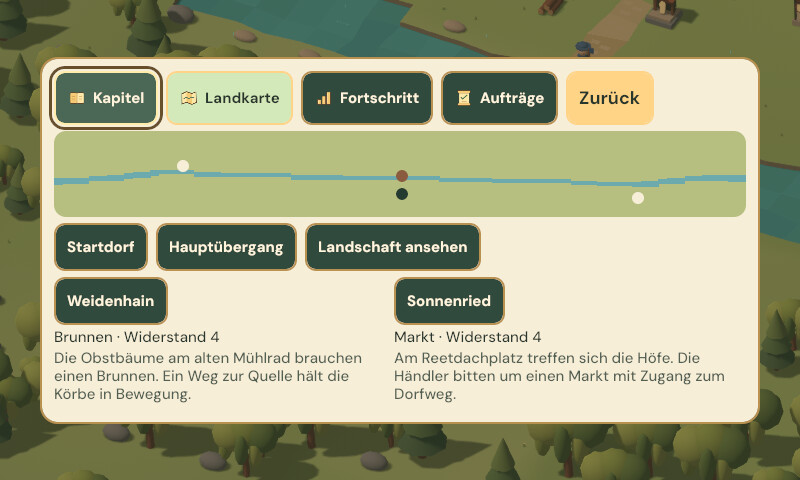
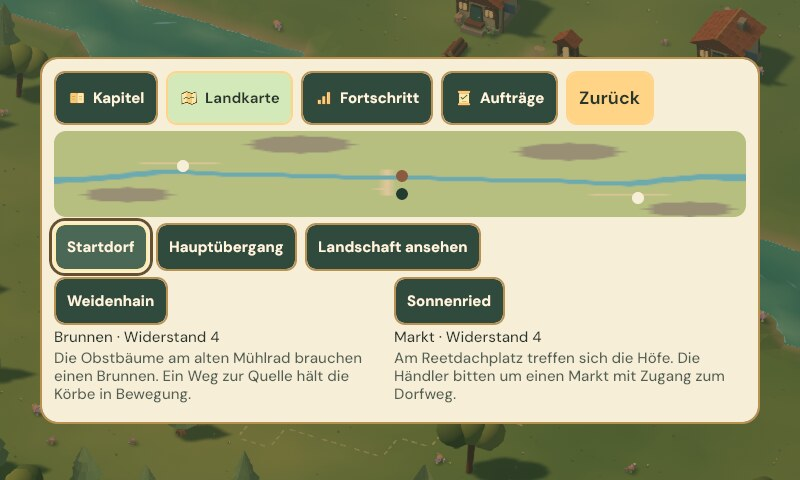
Document the final art pass and handheld play checks

diff --git a/docs/V1.md b/docs/V1.md
@@ -2,7 +2,7 @@
 
 ## Die Kampagne
 
-Weidental führt die Hand, den Bau und die Kreatur ein. Die späteren Welten beginnen mit einem kleinen Dorf. Der Hauptübergang öffnet jeweils die Außenbezirke. Wer beide fernen Siedlungen gewinnt, schaltet das nächste Kapitel frei. Alle vier Kapitel bleiben danach zum Weiterbauen und für offene Nebenaufträge verfügbar.
+Weidental führt die Hand, den Bau und die Kreatur ein. Die späteren Welten beginnen mit einem kleinen Dorf. Der Hauptübergang öffnet jeweils die Außenbezirke. Wer beide fernen Siedlungen gewinnt, schaltet das nächste Kapitel frei. Alle fünf Kapitel bleiben danach zum Weiterbauen und für offene Nebenaufträge verfügbar.
 
 | Welt | Raster | Äußere Siedlungen | Klima und Nebenauftrag |
 | --- | ---: | --- | --- |
@@ -10,19 +10,30 @@ Weidental führt die Hand, den Bau und die Kreatur ein. Die späteren Welten beg
 | Kiefernbucht | 88 × 64 | Wachfeuer und Nordlichtbogen | Im Schneefall steigt der Verbrauch. Ein angeschlossener Speicher schützt den Vorrat. Der Winterauftrag verlangt Holz. |
 | Reisterrassen | 92 × 68 | Kranichwehr und Lotussteg | Flussnebel beschleunigt das Wachstum. Zwei ausgebaute Felder und vier Ernten sichern das Saatgut. |
 | Papyrusufer | 100 × 72 | Akazienrast und Schilfkrone | Trockenzeit bremst unbewässerte Felder. Zwei Brunnen am Weg und Nahrung bilden die Reserve. |
+| Ägäisbogen | 118 × 95 | Olivenhafen und Sternenstufen | Die Seebrise bringt mehr Waren über den Handelshafen. Ein Theater und ein Orakel bereiten das Fest der Winde vor. |
 
 Die zusätzlichen Dörfer haben eigene Geschichten, einen Dorfweg und Anforderungen an Brunnen, Markt, Wachturm oder ausgebautes Haus. Verbinde das benötigte Gebäude mit einem selbst gebauten Wegstück und bringe die verlangte Gabe. Wer den Widerstand mit Windstößen, Donner oder Kreaturenwache auf null senkt, kann das Dorf übernehmen. Beide Ausgänge öffnen einen Sammelplatz und vergrößern den Einfluss.
 
 ## Wege, Wunder und Kreatur
 
-- **Stadtplanung.** Zehn Gebäudearten. Wege brauchen Anschluss und verkürzen Transportzeiten. Gläubige und Nilpferd bringen Rohstoffe zu erreichbaren Sammelpunkten und Lagern in ihrer Nähe. Brunnen halten Felder feucht, Märkte tauschen Nahrung in Baustoffe und Türme schützen Vorräte. Eine Werkstatt öffnet den Ausbau. Grenzsteine erweitern im Tausch gegen Glauben das Baugebiet entlang der Wege.
+- **Stadtplanung.** 31 Gebäudearten. Wege verkürzen Transporte und verbinden Werkstätten, Wohnhäuser und öffentliche Dienste. Familienhäuser schaffen Platz für Nachwuchs. Sägewerk, Steinhof und Schmiede verarbeiten Rohstoffe zu Brettern, Quadern und Werkzeug. Treffpunkte stärken die Stimmung. Palisaden, Wachen und Bastionen schützen Vorräte. Grenzsteine erweitern im Tausch gegen Glauben das Baugebiet. [Baubuch und Forschung](Stadtentwicklung.md)
 - **Wunder.** Regenschauer lässt trockene Felder keimen. Der Blütensegen lässt Saat reifen und erneuert Holz und Obst. Heillicht stärkt das Nilpferd. Die Schutzglocke schützt Vorräte. Windstoß und Donnergrollen senken gegnerischen Widerstand. Vier Talente haben je zwei Stufen und gelten in der ganzen Kampagne.
 - **Nilpferd.** Sammeln, Wache und Feldpflege sind wiederholbare Aufgaben. Lob nach getaner Arbeit erhöht den Rang. Auf Rang 2 hält es Wache, auf Rang 3 pflegt es Felder und auf höheren Rängen trägt es mehr und läuft ausdauernder. Pausen und Snacks füllen die Kraft auf.
 - **Fortsetzen.** Alte Spielstände aus 0.1.1 übernehmen Kapitel, Gebäude, Vorräte, getragene Bündel und Kreaturenrang. Neue Quellen, Wege und Außenbezirke kommen dazu. Freigeschaltete Kapitel bleiben erreichbar.
 
 ## Bildreferenzen
 
-Die Übersichts- und Stadtstudien entstanden vor der Umsetzung. In Bevy prägen sanfte Weidenhügel, verschneite Fjordfelsen, gestufte Terrassen und ockerfarbene Ufer die vier Karten. Die Vorlagen führten zu organischeren Flussläufen, einzelnen Dorfgruppen und helleren Wegen. Die Spielbilder zeigen Städte und Landschaften aus den Kampagnentests. [Weidental-Übersicht](weidental-uebersicht-v1.png) · [Stadtplanung](weidental-stadtplanung-v1.png) · [Landschaftsstudie](regionen-v1-referenz.png) · [Bevy-Gesamtansicht](weidental-v1-landschaft.jpg) · [Bevy-Stadt](weidental-v1-spiel.jpg) · [Drei Welten in Bevy](regionen-v1-spiel.jpg)
+Die Übersichts- und Stadtstudien entstanden vor der Umsetzung. In Bevy prägen sanfte Weidenhügel, verschneite Fjordfelsen, gestufte Terrassen, ockerfarbene Ufer und Inseln die fünf Karten. Die Vorlagen führten zu organischeren Flussläufen, einzelnen Dorfgruppen und helleren Wegen. Die Spielbilder zeigen Städte und Landschaften aus den Kampagnentests. [Weidental-Übersicht](weidental-uebersicht-v1.png) · [Stadtplanung](weidental-stadtplanung-v1.png) · [Landschaftsstudie](regionen-v1-referenz.png) · [Bevy-Gesamtansicht](weidental-v1-landschaft.jpg) · [Bevy-Stadt](weidental-v1-spiel.jpg) · [Drei Welten in Bevy](regionen-v1-spiel.jpg)
+
+## Gelände, Licht, Wetter und Physik
+
+Die Landschaftsstudie gab die Staffelung aus bewachsenem Boden, Ufer, hellen Untiefen und dunklerem Wasser vor. Bevy zeichnet sie in Geländestücken von 16 × 16 Rasterfeldern. Gras und Blüten stecken in den Geländemeshes. Die Schaumlinie folgt dem Schnitt von Wasserfläche und Gelände. Im Ägäisbogen kamen Oliven, gerollte Dachziegel und versetztes Kalksteinmauerwerk hinzu. Die Screenshots zeigen vorbereitete Dörfer aus der normalen Spielkamera. [Geländereferenz](gelaende-v1-referenz.jpg) · [Ägäisbogen im Spiel](aegaeisbogen-spiel.jpg)
+
+Aus Waldwinkel 1.1.0 stammen Kiefer, Fels, Pilze, Sumpfkräuter, Muscheln, Erdbeerstauden, Kupferlaterne und Farn. Die eingebundenen GLBs liegen unter `assets/models/waldwinkel/` und entsprechen dem Stand `ffeac7f8b61754779a14ec684ac3b84c6b3240ca`. Waldwinkels Quellcode für weiche Küsten, Schaum und kleine Geländemeshes diente als Vorlage für die Bevy-Umsetzung. [Waldwinkel 1.1.0](https://github.com/bthginfo/waldwinkel/releases/tag/v1.1.0) · [Quellmodelle](https://github.com/bthginfo/waldwinkel/tree/ffeac7f8b61754779a14ec684ac3b84c6b3240ca/assets/models) · [Geländegenerator](https://github.com/bthginfo/waldwinkel/blob/ffeac7f8b61754779a14ec684ac3b84c6b3240ca/art/landscape.py)
+
+Sonne, farbiges Fülllicht und Tiefendunst wechseln sanft mit dem Wetter. Landregen, Schneefall, Flussnebel, Trockenheit und Seebrise haben jeweils eigene Partikel. Auf Mobilgeräten teilen sie sich einen Pool mit 52 Objekten. Die Sonne nutzt eine einzelne Schattenkaskade mit 1024 × 1024 Pixeln. In der Fernansicht entfallen die dynamischen Schatten. Die Schatten der Gebäude und die Gesichter der Figuren sind im Nahbereich auch bei Wetterschwankungen lesbar. [Licht- und Wetterreferenz](licht-wetter-v1-referenz.jpg) · [Vier Wetterlagen im laufenden Spiel](licht-wetter-v1-spiel.jpg)
+
+Das Höhenprofil von Gelände, Ufer und Brückendeck verbindet Darstellung, Laufen, Touch-Auswahl und Wundereffekte. Die Schritte der Figuren und der Auswahlring folgen dem Boden. Tropfen fallen mit Beschleunigung und treffen auf derselben Oberfläche auf. Die Wegfindung berücksichtigt auf dem Raster Wasser, Gebäude und begehbare Übergänge. [Bevy-Beleuchtung](https://bevy.org/examples/3d-rendering/lighting/) · [Bevy-Tiefendunst](https://bevy.org/examples/3d-rendering/fog/) · [Skills und Spielreferenzen](../PLAN.md#über-find-skills-geprüfte-arbeitsweisen)
 
 ## Spieloberfläche
 
@@ -34,7 +45,7 @@ Der Fokusrahmen bleibt bei Menüänderungen an derselben Aktion. Steuerkreuz und
 
 ## Prüfungen
 
-- Sieben Rust-Tests durchlaufen die friedliche Kampagne über alle vier Welten und den Kampfweg im Weidental. Sie prüfen Brücken als Wegverbindung, Baumaterial und Gaben, Ausbauten, Grenzsteine, Talente, Feldpflege, die Migration eines 0.1.1-Spielstands und die räumliche Menüführung.
-- Das laufende Bevy-Spiel lud den älteren Spielstand, reparierte die Brücke, schloss das Bündnis und baute einen Weg. Die Oberflächenprüfung deckte 1360 × 765, 844 × 390 und 1024 × 768 ab. [Landkarte im Handyformat](landkarte-v1-spiel.jpg) · [Aufträge im Tabletformat](tablet-v1-spiel.jpg)
-- Die signierte APK für ARM64 und x86_64 lässt sich im Android-14-Emulator als Update über 0.1.1 installieren. Touch brachte Holz vom Vorrat zum Sammelplatz. Ein virtueller Controller öffnete die Karte, bewegte den Fokus und sprang mit der Bestätigung ins Startdorf. [Android-Controllerfokus im Spiel](controller-v1-spiel.jpg)
-- Xcode hat das iOS-Simulatorpaket auf GitHub gebaut. Der Lauf zur Simulatorprüfung ist verlinkt. Installation, Eingaben und Grafikleistung auf physischen iPhones, iPads und Android-Geräten sind ungeprüft. [Apple-Prüflauf](https://github.com/bthginfo/Hippogrove/actions/runs/44717973759) · [Paketierung](../README.md#ios-und-ipados)
+- Zehn Rust-Tests durchlaufen die friedliche Kampagne über alle fünf Welten und den Kampfweg im Weidental. Sie prüfen Brücken, Baukosten, Grenzsteine, Talente, Feldpflege, Forschungsvoraussetzungen, Materialketten, Geburten, Wachen, Datenmigration und die räumliche Menüführung. Der Geländetest gleicht alle Rasterfelder mit der gezeichneten Küstenlinie ab und erfasst Strahltreffer am Boden und auf der Brücke.
+- Das laufende Bevy-Spiel lud einen älteren Spielstand, reparierte die Brücke, schloss ein Bündnis und baute einen Weg. Die Oberflächenprüfung deckte 1360 × 765, 844 × 390 und 1024 × 768 ab. Der Ägäisbogen ließ sich aus einem abgeschlossenen Spielstand mit vier Welten öffnen. [Landkarte im Handyformat](landkarte-v1-spiel.jpg) · [Aufträge im Tabletformat](tablet-v1-spiel.jpg)
+- Die APK enthält ARM64 und x86_64 und ist mit APK Signature Scheme v2 und v3 signiert. Im Android-14-Emulator ließ sich die aktuelle APK als Update installieren. Touch brachte sechs Holz vom Vorrat zum Sammelplatz. Ein virtueller Controller öffnete die Karte, bewegte den Fokus und sprang mit der Bestätigung ins Startdorf. [Touch-Lieferung](hand-v1-android.jpg) · [Android-Controllerfokus](controller-v1-spiel.jpg)
+- Der Apple-Prüflauf baut das Paket mit Xcode und zeichnet den Spielstart im iPhone- und iPad-Simulator auf. Physische Geräte, Bluetooth-Controller und Grafikleistung auf realer Apple- und Android-Hardware sind noch ungeprüft. [Apple-Prüflauf](https://github.com/bthginfo/Hippogrove/actions/runs/44725936809) · [Paketierung](../README.md#ios-und-ipados)

diff --git a/README.md b/README.md
@@ -2,9 +2,9 @@
 
 Ein mobiles Cozy-3D-Götterspiel in Rust und Bevy. Als junger Nilpferdgott hilfst du einem Dorf am Fluss, baust es aus und gewinnst Glauben. Deine Wolkenpfote greift direkt in die Welt ein. Ein aufrecht laufendes Nilpferd sammelt, trägt und lernt an deiner Seite.
 
-Hippogrove 1.0 spielt sich im Querformat per Touch oder mit angeschlossenem Controller. Vier Welten führen vom Weidental über die Kiefernbucht und die Reisterrassen bis ans Papyrusufer. Baue Dörfer am Fluss aus und gewinne jedes Mal drei Nachbarsiedlungen durch Versorgung und Ansehen oder durch Wunder und Kreaturenwachen. Talente und Kreaturenrang reisen mit. Alle Städte, Straßen und Entscheidungen bleiben im lokalen Spielstand erhalten.
+Hippogrove 1.0 spielt sich im Querformat per Touch oder mit angeschlossenem Controller. Fünf Welten führen vom Weidental über die nordisch inspirierte Kiefernbucht, die Reisterrassen und das Papyrusufer bis zu den griechischen Sagen des Ägäisbogens. Baue Dörfer aus und gewinne ihre Nachbarsiedlungen durch Versorgung und Ansehen oder durch Wunder und Wachen. Forschung, Talente und Kreaturenrang reisen mit. Alle Städte, Straßen und Entscheidungen bleiben im lokalen Spielstand erhalten.
 
-![Bevy-Spielaufnahme aus Hippogrove 1.0 mit Wegen, Nilpferd und Wolkenpfote](docs/weidental-v1-spiel.jpg)
+![Der Ägäisbogen im Spiel mit Theater, Hafen, Badhaus und dem Nilpferd](docs/aegaeisbogen-spiel.jpg)
 
 ## Spielen
 
@@ -12,15 +12,15 @@ Auf Android öffnest du die signierte Test-APK aus deinen Downloads. Benötigt w
 
 Tippe auf einen Holzstoß und bestätige **Greifen**. Wähle dann den Sammelplatz und **Ablegen**. Mit **Gläubige** und **Nilpferd** erteilst du Sammelaufträge. **Zum Ziel** zeigt einen passenden Zielpunkt für das aktive Werkzeug. In **Fortschritt** setzt du Talentpunkte ein. Das Nilpferd lernt durch Lob nach einer Lieferung, Wache oder Ernte.
 
-Unter **Planen** zeichnest du Wege mit Anfang und Ende. Ausbauten brauchen eine Werkstatt und Anschluss an einen Dorfweg. Am Wegenetz bewässern Brunnen die Felder, Märkte tauschen Vorräte und Wachtürme schützen den Umkreis. Unter **Bauen** wechselst du zwischen Grundbau, Versorgung und Grenze. Auf der **Landkarte** springst du zwischen Startdorf, Übergang und den fernen Siedlungen.
+Unter **Planen** zeichnest du Wege mit Anfang und Ende. Ausbauten brauchen eine Werkstatt und einen Anschluss an den Dorfweg. Das **Baubuch** zeigt 31 Gebäudearten mit ihren Kosten und Aufgaben. Im **Forschungsmenü** erschließt du 12 Technologien über vier Zweige. Am Wegenetz können Familien wachsen, Betriebe Vorprodukte und Werkzeug herstellen, Treffpunkte die Stimmung heben und Wachhäuser Wachen ausbilden. Auf der **Landkarte** springst du zwischen Startdorf, Übergang und den fernen Siedlungen.
 
 Tippe auf den Titel des aktiven Auftrags, um ihn einzuklappen. Der goldene Knopf zeigt die Aktion für das ausgewählte Ziel. Im Nilpferd-Werkzeug findest du Lob, Snack und Pause unter **Pflege**. Der Fokusrahmen zeigt im Menü, welche Aktion du per Controller oder Tastatur bestätigst.
 
 | Steuerung | Kamera und Ziel | Aktionen |
 | --- | --- | --- |
 | Touch | Boden ziehen, mit zwei Fingern schwenken und zoomen, Ziel antippen | Werkzeugleiste und Bestätigung |
-| Controller | Linker Stick bewegt die Wolkenpfote, rechter Stick schwenkt, Trigger zoomen | Steuerkreuz wählt Werkzeuge oder Menüpunkte, Südtaste bestätigt, Osttaste bricht ab, Start öffnet die Karte |
-| Rechner | Maus zum Antippen, Ziehen und Zoomen, WASD zum Schwenken | 1–6 für Werkzeuge, E für die Aktion, R zum Drehen, G fürs Ziel, M für die Landkarte, Tab für Kapitel, Q für Aufträge, P für Fortschritt. Pfeiltasten und Enter bedienen Menüs. F12 speichert ein Spielbild. |
+| Controller | Linker Stick bewegt die Wolkenpfote, rechter Stick schwenkt, Trigger zoomen | Steuerkreuz wählt Werkzeuge oder Menüpunkte, Südtaste bestätigt, Osttaste bricht ab, Start öffnet die Karte. Die linke Schultertaste öffnet beim Bauen das Baubuch. |
+| Rechner | Maus zum Antippen, Ziehen und Zoomen, WASD zum Schwenken | 1–6 für Werkzeuge, E für die Aktion, R zum Drehen, G fürs Ziel, M für die Landkarte, Tab für Kapitel, Q für Aufträge, P für Fortschritt, B fürs Baubuch und T für Forschung. Pfeiltasten und Enter bedienen Menüs. F12 speichert ein Spielbild. |
 
 ## Projekt bauen
 
@@ -57,8 +57,10 @@ Ein Gerätebuild mit `HIPPOGROVE_IOS_DEVICE=1` verwendet `aarch64-apple-ios` und
 
 Black & White und Black & White 2 liefern die Spielideen für Hand, Einfluss, Kreatur und Siedlungsbau. Waldwinkel ist die Vorlage für die Low-Poly-Optik, die Bedienung und die mobile Paketierung. Der ausführliche Plan enthält weitere Spielreferenzen und die geprüften Skills. [Waldwinkel](https://github.com/bthginfo/waldwinkel) · [Entwicklungsplan](PLAN.md)
 
-Die Blender-Quelle liegt in `art/Hippogrove.blend`. `blender -b -P art/build_scene.py` erzeugt das Nilpferd und seinen GLB-Export. In Bevy bewegen sich Arme und Beine über getrennte Drehpunkte. Die Referenzen für 1.0 lagen vor dem Umbau vor. [Weidental](docs/weidental-uebersicht-v1.png) · [Stadtplanung](docs/weidental-stadtplanung-v1.png) · [Kiefernbucht, Reisterrassen und Papyrusufer](docs/regionen-v1-referenz.png)
+Die Blender-Quelle liegt in `art/Hippogrove.blend`. `blender -b -P art/build_scene.py` erzeugt das Nilpferd und seinen GLB-Export. In Bevy bewegen sich Arme und Beine über getrennte Drehpunkte. Für die neuen Gebäude entstanden eigene Low-Poly-Modelle und Materialien. Die Referenzen lagen vor dem Modellieren vor. [Modellquellen der Gebäude](src/art/settlement_models.rs) · [Gebäudestudie](docs/gebaeude-referenz.png) · [Ägäisbogen](docs/aegaeisbogen-referenz.png) · [Forschungsoberfläche](docs/forschung-referenz.png)
+
+Die Landschaften haben modellierte Uferzonen, Straßen aus einzelnen Steinen und regionales Wetter. Bevy stimmt Sonnenwinkel, Fülllicht, Dunst und Schatten auf die jeweilige Welt ab. Das Höhenprofil bestimmt gleichzeitig, wo Figuren laufen, wo Regen auftrifft und welchen Bodenpunkt die Wolkenpfote auswählt. Acht Vegetations-, Siedlungs- und Rohstoffmodelle stammen aus Waldwinkel 1.1.0. [Licht, Wetter und Herkunft der Modelle](docs/V1.md#gelände-licht-wetter-und-physik)
 
 ## Geprüfter Stand
 
-Die Rust-Tests spielen den Friedensweg durch alle vier Kapitel und den Kampfweg im Weidental. Sie prüfen Wege und Dienste, Ausbauten, Einfluss, Kreaturentraining, Wunder und das Laden älterer Spielstände. Änderungen, Spielaufnahmen und Plattformprüfungen stehen in den Versionsnotizen. [Entwicklung und Prüfungen für 1.0](docs/V1.md)
+Die Rust-Tests spielen den Friedensweg durch alle fünf Kapitel und den Kampfweg im Weidental. Sie prüfen auch die Forschungs- und Produktionsketten, Geburten, Patrouillen, Wunder, die Menüführung und die Übernahme älterer Spielstände. [Spielaufnahmen und Prüfungen für 1.0](docs/V1.md) · [Stadtentwicklung](docs/Stadtentwicklung.md)

diff --git a/PLAN.md b/PLAN.md
@@ -86,7 +86,7 @@ Der Bodenring zeigt den tatsächlichen Trefferpunkt. Die Wolke sitzt versetzt, d
 
 ## Umsetzung in Bevy
 
-1. Gelände, Ufer, Bauplätze und Rohstoffquellen teilen sich ein Raster. Die Kamera blickt orthografisch auf die Szene. Auswahlstrahl, Platzierung, Wegfindung und Einflussgrenze nutzen dieselben Koordinaten. Der einzige Übergang über das Wasser bleibt als Fußweg frei.
+1. Gelände, Ufer, Bauplätze und Rohstoffquellen teilen sich ein Raster. Die Kamera blickt orthografisch auf die Szene. Auswahlstrahl, Platzierung, Wegfindung und Einflussgrenze nutzen dieselben Koordinaten. Die Querungen bleiben als Fußwege frei. Am Hauptübergang wird die Reparatur Teil des ersten Bündnisses.
 2. Das Rust-Spielmodell verarbeitet Befehle wie Greifen, Liefern, Bauen, Beauftragen und Wunder wirken. Es prüft Vorräte, Ziele und Berechtigungen, bevor es eine Aktion übernimmt. Simulationsschritte bewegen Helfer und Kreatur, liefern Bündel ab, lassen Pflanzen wachsen und laden Wunderkraft auf. Die Darstellung liest den Spielzustand und zeigt die zugehörigen Modelle, Bewegungen und Rückmeldungen.
 3. Touch, Maus und Controller verwenden den gleichen Auswahlpunkt und die gleichen Aktionen. Antippen wählt, Bestätigen führt aus. Ziehen über freien Boden schwenkt die Kamera. Im Bau- oder Wundermodus verschiebt Ziehen das Ziel. Zweifinger-Zoom bricht die Geste ab, die bei einem einzelnen Finger zur Auswahl führen würde. Controller-Sticks und Menütasten steuern auch Fortschritts- und Kapitelansicht.
 4. Der Spielstand hält Siedlungen, drei Fortschritte, Questphase, offene Transporte und das in der Pfote gehaltene Bündel fest. Stabile Kennungen in den Leveldaten verbinden die gespeicherten Zustände mit Rohstoffquellen und Gebäuden. Fortsetzen stellt die laufende Karte wieder her.
@@ -98,6 +98,9 @@ Der Bodenring zeigt den tatsächlichen Trefferpunkt. Die Wolke sitzt versetzt, d
 - **Bevy Quest, Character Movement und Ability System** liefern Muster für einmalige Belohnungen, getrennte Bewegungsabsichten und die Prüfung von Wunderkosten vor der Ausführung. Hippogrove nutzt diese Muster mit den APIs von Bevy 0.16.1. [Quest-System](https://skills.sh/thedivergentai/game-design-agentic-skills/bevy-quest-system) · [Bewegung](https://skills.sh/thedivergentai/game-design-agentic-skills/bevy-character-movement) · [Fähigkeiten](https://skills.sh/thedivergentai/game-design-agentic-skills/bevy-ability-system)
 - **Blender Modeling, Animation und Export** geben Orientierung für sich überlappende Modellteile, Gelenkpunkte und den GLB-Export. Das Nilpferd hat eine Blender-Quelldatei und bewegliche Arme und Beine in Bevy. Bei der Laufprüfung zählen Blickrichtung, Bodenkontakt und die Lage des Bündels. [Modeling](https://skills.sh/roble3/cc-blender-skill/blender-modeling) · [Animation](https://skills.sh/roble3/cc-blender-skill/blender-animation) · [Export](https://skills.sh/roble3/cc-blender-skill/blender-export) · [Motion State Inspection](https://skills.sh/affaan-m/ecc/blender-motion-state-inspection)
 - **Blender Weather FX** empfiehlt sichtbare Wetterebenen und eine Prüfung im Zielformat. Die Kiefernbucht zeigt Schneeflächen und fallende Flocken. Regen zeichnet Tropfen und verändert Licht und Wachstum im Spiel. [Weather FX](https://skills.sh/el4cteo/blender-skills/blender-weather-fx)
+- **Blender Lighting & Look-dev** empfiehlt für Spielaufnahmen dieselbe Kombination aus gerichtetem Hauptlicht und Fülllicht wie in der Engine. Für die Geländepaletten haben wir warme Sonne, Schneefall und Regen im Bevy-Spiel mit den Referenzbildern verglichen. Bevy 0.16.1 liefert die Kameraeffekte und Schattenkaskaden. [Lighting & Look-dev](https://github.com/el4cteo/blender-skills/tree/main/skills/blender-lighting-lookdev) · [Bevy-Beleuchtung](https://bevy.org/examples/3d-rendering/lighting/) · [Bildvergleich](docs/V1.md#gelände-licht-wetter-und-physik)
+- **Bevy 3D Physics** und **Character Movement** unterscheiden den festen Simulationsschritt von der Darstellung der Bewegung. Hippogrove simuliert Wege mit 24 Schritten pro Sekunde und setzt interpolierte Figuren auf dasselbe Höhenprofil, das der Cursor und der Niederschlag abtasten. [Bevy 3D Physics](https://github.com/thedivergentai/game-design-agentic-skills/tree/main/skills/bevy-physics-3d) · [Bewegung](https://skills.sh/thedivergentai/game-design-agentic-skills/bevy-character-movement)
+- Die Suche mit **Find Skills** ergab für „bevy lighting“ und „game physics“ keine direkte Empfehlung. Die Quellen zu Blender und Bevy wurden anschließend in den Skill-Repositorien und bei Bevy geprüft. [Find Skills](https://github.com/vercel-labs/skills/tree/main/skills/find-skills) · [Bevy-Beispiele](https://bevy.org/examples/)
 
 ## Reihenfolge der Umsetzung
 
@@ -105,6 +108,7 @@ Der Bodenring zeigt den tatsächlichen Trefferpunkt. Die Wolke sitzt versetzt, d
 2. **Sammeln und Bauen.** Das Weidental gestalten und Licht, Größen und Kamerabild an der Referenz ausrichten. Die ersten Gebäude platzieren, Vorräte verrechnen und die Sammelaufträge für Gott, Gläubige und Kreatur anbinden. Das Nilpferd läuft, hebt ein Bündel auf und setzt es im Lager ab.
 3. **Weidental abschließen.** Schreine, die beiden Wunder, die drei Aufträge und beide Wege zum Kapitelsieg verbinden. Je eine Freischaltung für Gott, Stadt und Kreatur sowie lokales Speichern und Fortsetzen einbauen.
 4. **Kampagne ausbauen.** Auf dem mitteleuropäisch inspirierten Weidental folgen ein nordischer Fjord mit Wintervorräten und einem umkämpften Anleger, ostasiatisch inspirierte Reisterrassen mit Streit um die Wasserverteilung und ein Kapitel an einem ostafrikanisch inspirierten See mit Regen- und Trockenzeit. Jede Region bekommt eine eigene Architektur, Palette, Legende, Questkette und einen Rivalen. Für jede Region entsteht vor der Modellierung ein eigenes Referenzbild.
+5. **Stadtentwicklung und Licht.** Der Ägäisbogen erweitert die Kampagne um griechische Sagen. Ein Baubuch und vier Forschungszweige erschließen Wohnen, Werkstätten, öffentliche Orte und Verteidigung. Vor der Modellierung entstehen Referenzen für Gebäude, Gelände und die Beleuchtung der verschiedenen Wetterlagen. [Stadtentwicklung](docs/Stadtentwicklung.md) · [Bildvergleich und Prüfungen](docs/V1.md)
 
 ## Woran wir den ersten spielbaren Abschnitt prüfen
 

diff --git a/docs/Stadtentwicklung.md b/docs/Stadtentwicklung.md
@@ -1,6 +1,21 @@
 # Stadtentwicklung und Ägäisbogen
 
-Die Siedlungen wachsen von den ersten Hütten zu Orten mit Familien, Handwerk, Dorfleben und Wachen. Die Ägäis wird das fünfte Kapitel. Weißer Kalkstein, Terrakotta, Oliven und Säulenhöfe prägen die Inseln. Kiefernbucht greift mit Langhäusern, Feuerstellen und Festhallen nordische Vorbilder auf. [Griechische Architektur](https://www.metmuseum.org/essays/architecture-in-ancient-greece) · [Nordische Langhäuser](https://en.natmus.dk/historical-knowledge/denmark/prehistoric-period-until-1050-ad/the-viking-age/the-people/viking-homes/)
+Die Siedlungen wachsen von den ersten Hütten zu Orten mit Familien, Handwerk, Dorfleben und Wachen. Weißer Kalkstein, Terrakotta, Oliven und Säulenhöfe prägen das fünfte Kapitel im Ägäisbogen. Kiefernbucht greift mit Langhäusern, Feuerstellen und Festhallen nordische Vorbilder auf. [Griechische Architektur](https://www.metmuseum.org/essays/architecture-in-ancient-greece) · [Nordische Langhäuser](https://en.natmus.dk/historical-knowledge/denmark/prehistoric-period-until-1050-ad/the-viking-age/the-people/viking-homes/)
+
+## Bauen und Forschen
+
+Erkenntnis aus Aufträgen, Theater und Archiv schaltet 12 Technologien frei. Einfache Techniken brauchen eine Hütte, mittlere ein Dorf mit Feld und Lager, fortgeschrittene eine Werkstatt. Die fortgeschrittenen Techniken verbinden mehrere Zweige. Das Baubuch zeigt die Vorgänger, Kosten und Aufgaben direkt beim Gebäude.
+
+| Zweig | Neue Gebäude | Was sich im Spiel ändert |
+| --- | --- | --- |
+| Wohnen | Familienhaus, Hofhaus, Kinderhaus, Heilstube und Badhaus | Wohnplätze, Geburten und Aufwachsen. Kinder helfen später mit. Heilstube und Bad unterstützen Erholung und Stimmung. |
+| Handwerk | Sägewerk, Steinhof, Bäckerei, Schmiede und Handelshafen | Bretter und Quader werden zu Werkzeug. Backen schafft Nahrung. Der Hafen tauscht Werkzeug und nimmt Lieferungen an. |
+| Dorfleben | Gartenplatz, Schankstube, Festhalle, Theater, Archiv, Orakel und Tempel | Gemeinschaft stärkt die Stimmung, Feste bringen Glauben, Aufführungen und Schreiber bringen Erkenntnis. Orakel und Tempel stärken die Wunderkraft. |
+| Wache | Palisade, Signalfeuer, Wachhaus und Bastion | Baue Schutz am Übergang und bilde Wachen mit Nahrung und Werkzeug aus. Gib ihnen unter **Gläubige** einen Patrouillenposten. |
+
+Die drei Bildstudien entstanden vor den neuen Modellen. Die Gebäude bauen auf regionalen Materialpaletten und unterscheidbaren Formen auf, etwa dem gestuften Theater, den offenen Werkstätten und der Nordischen Festhalle. [Inselwelt](aegaeisbogen-referenz.png) · [Gebäude](gebaeude-referenz.png) · [Forschung](forschung-referenz.png)
+
+Die Spielaufnahmen zeigen das ägäische Theater, den Handelshafen und das Badhaus sowie die Festhalle und Werkstätten der Kiefernbucht. Die Bühne dient dem Dorfleben, der Hafen tauscht Vorräte und das Bad braucht einen Brunnen. Die Forschung zeigt pro Knoten, welche Pläne er öffnet. [Ägäisbogen im Spiel](aegaeisbogen-spiel.jpg) · [Kiefernbucht im Schnee](licht-wetter-v1-spiel.jpg) · [Forschung im Handyformat](forschung-spiel.jpg)
 
 ## Ablauf
 
